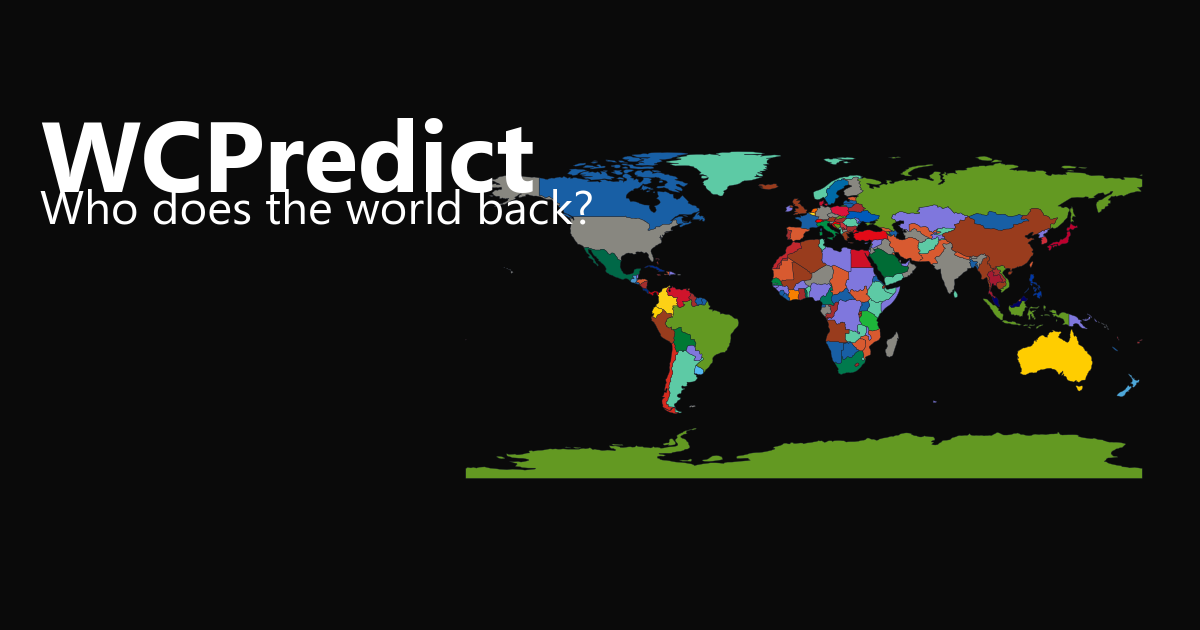
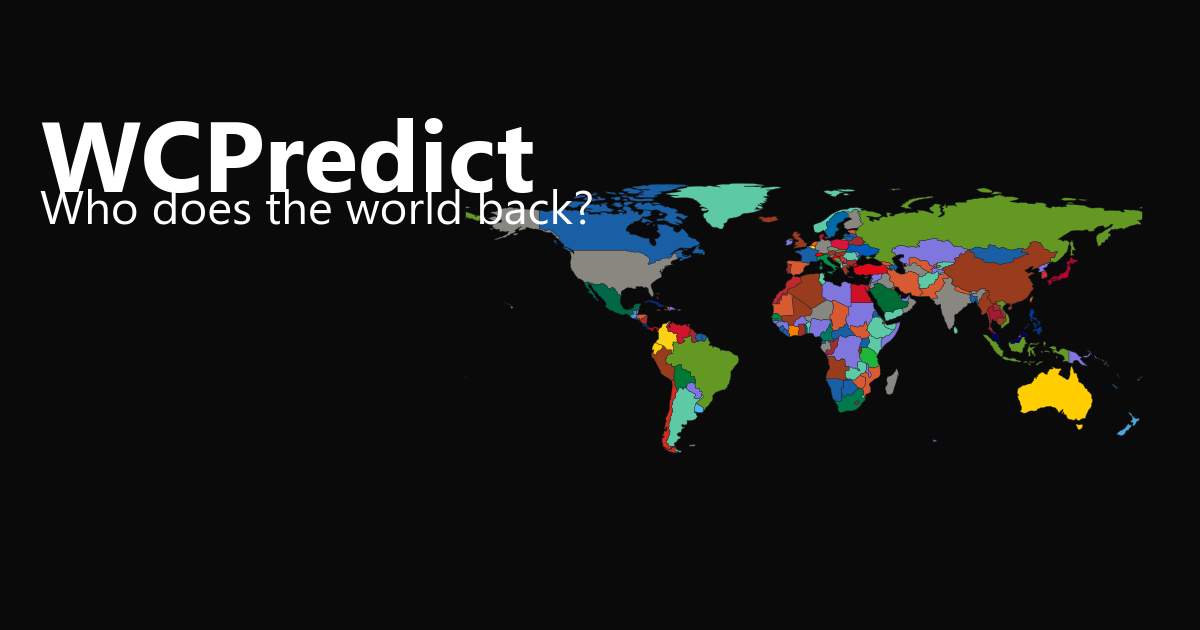
drop Antarctica from OG image, add About section

Changed region(s): [[0.37, 0.2413, 0.9558, 0.7841]]

diff --git a/index.html b/index.html
@@ -70,6 +70,28 @@
       <select id="country-select"><option value="">Your country...</option></select>
       <button id="submit-btn" onclick="submitPredictions()">Submit picks</button>
     </div>
+
+    <details id="about-section">
+      <summary>About / How it works</summary>
+      <div class="about-body">
+        <div class="about-item">
+          <strong>What is WCPredict?</strong>
+          <p>A live map showing how fans from every nation are predicting the 2026 World Cup. No account needed, just pick and submit.</p>
+        </div>
+        <div class="about-item">
+          <strong>How do the map colours work?</strong>
+          <p>Each country is coloured by the team its fans back most to win the tournament. The more picks a team gets from that country, the stronger the colour.</p>
+        </div>
+        <div class="about-item">
+          <strong>How is match accuracy calculated?</strong>
+          <p>After each match result is confirmed, every prediction is scored. The accuracy leaderboard shows which nations are best at calling results.</p>
+        </div>
+        <div class="about-item">
+          <strong>Privacy</strong>
+          <p>No account is required. Your IP address is hashed before storage and never kept in raw form. No personal data is collected.</p>
+        </div>
+      </div>
+    </details>
   </div>
   <script src="app.js"></script>
 </body>

diff --git a/style.css b/style.css
@@ -253,6 +253,59 @@ body {
 #submit-btn:hover { opacity: 0.85; }
 #submit-btn:disabled { opacity: 0.5; cursor: not-allowed; }
 
+#about-section {
+  margin: 0 16px 20px;
+  border: 0.5px solid rgba(255,255,255,0.12);
+  border-radius: 8px;
+  background: #111;
+  overflow: hidden;
+}
+
+#about-section summary {
+  padding: 12px 14px;
+  font-size: 13px;
+  font-weight: 500;
+  color: #e8e6df;
+  cursor: pointer;
+  list-style: none;
+  user-select: none;
+}
+
+#about-section summary::-webkit-details-marker { display: none; }
+
+#about-section summary::after {
+  content: '+';
+  float: right;
+  color: rgba(255,255,255,0.35);
+  font-weight: 400;
+}
+
+#about-section[open] summary::after { content: '−'; }
+
+#about-section .about-body {
+  padding: 0 14px 14px;
+  border-top: 0.5px solid rgba(255,255,255,0.08);
+}
+
+#about-section .about-item {
+  padding-top: 12px;
+}
+
+#about-section .about-item strong {
+  display: block;
+  font-size: 12px;
+  font-weight: 600;
+  color: #fff;
+  margin-bottom: 4px;
+}
+
+#about-section .about-item p {
+  font-size: 12px;
+  line-height: 1.5;
+  color: rgba(255,255,255,0.45);
+  margin: 0;
+}
+
 .loading { color: rgba(255,255,255,0.3); font-size: 12px; }
 .no-data { color: rgba(255,255,255,0.3); font-size: 12px; margin-top: 4px; }
 

diff --git a/scripts/generate-og-image.py b/scripts/generate-og-image.py
@@ -61,12 +61,14 @@ def main() -> None:
             f"og-map-fills.json has {len(country_fills)}"
         )
     world["fill"] = country_fills
+    world = world[world["NAME"] != "Antarctica"]
 
     dpi = 100
     fig_w, fig_h = W / dpi, H / dpi
     fig = plt.figure(figsize=(fig_w, fig_h), facecolor=BG, dpi=dpi)
 
-    ax = fig.add_axes([0.36, 0.06, 0.62, 0.88])
+    # Shifted up to match live map (no Antarctica, translate height / 2.1)
+    ax = fig.add_axes([0.36, 0.03, 0.62, 0.93])
     ax.set_facecolor(BG)
     world.plot(
         ax=ax,
